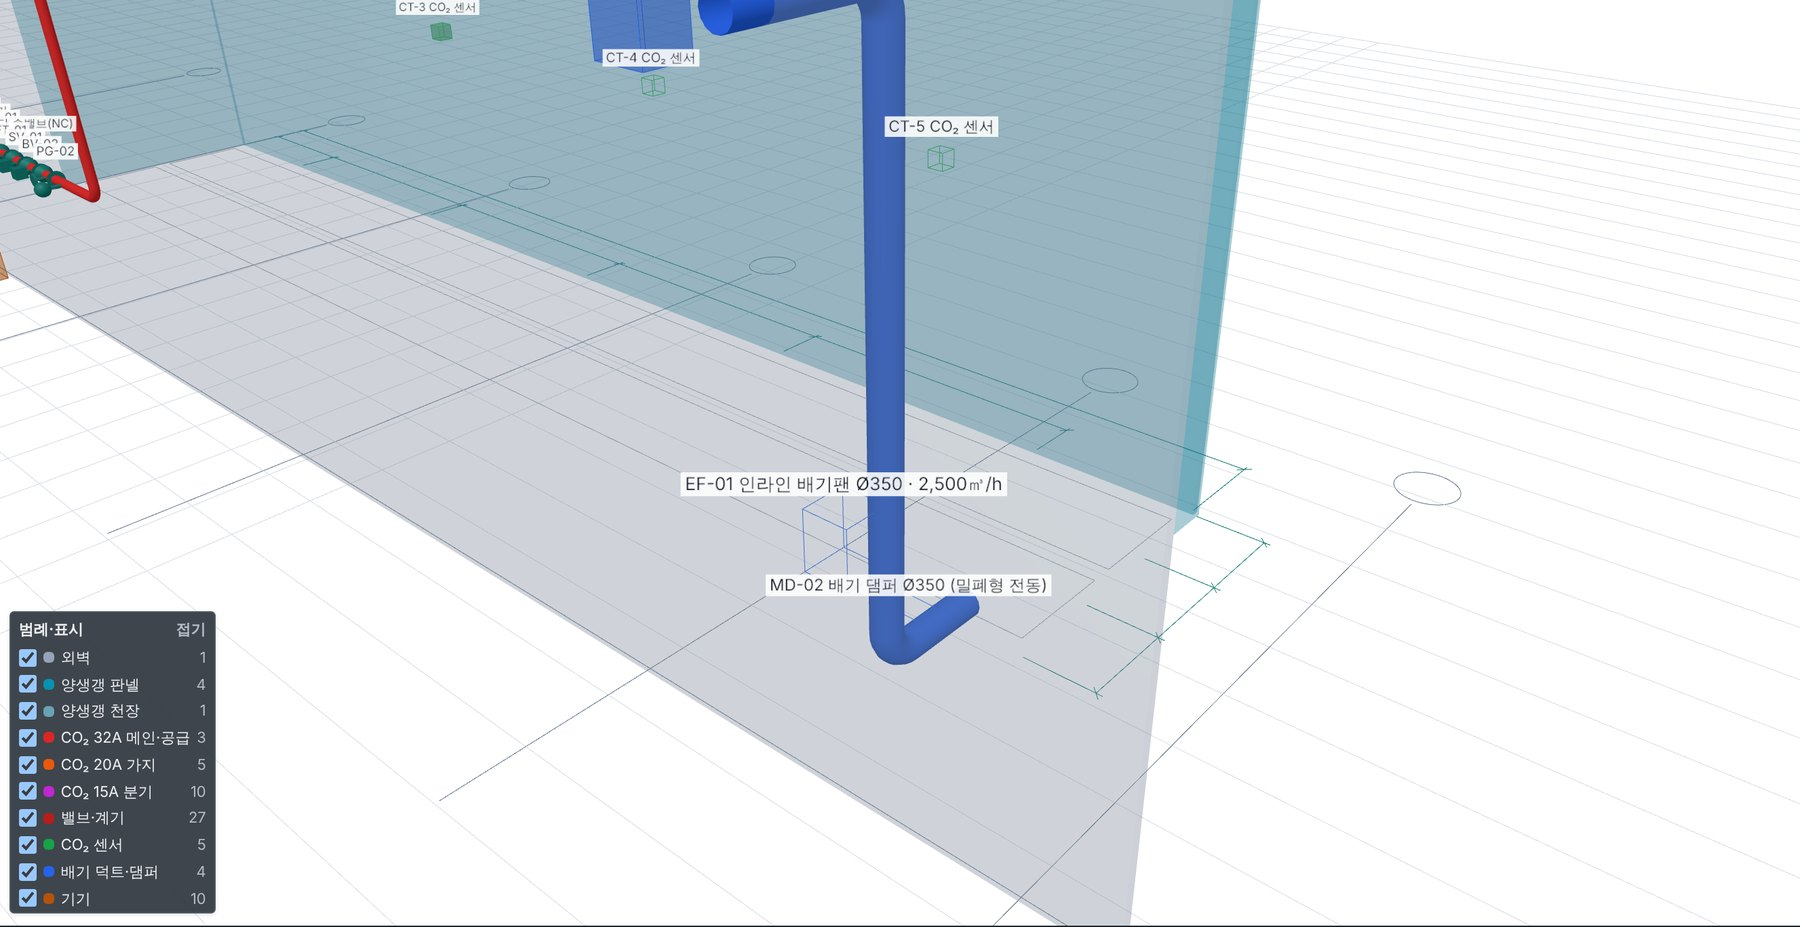
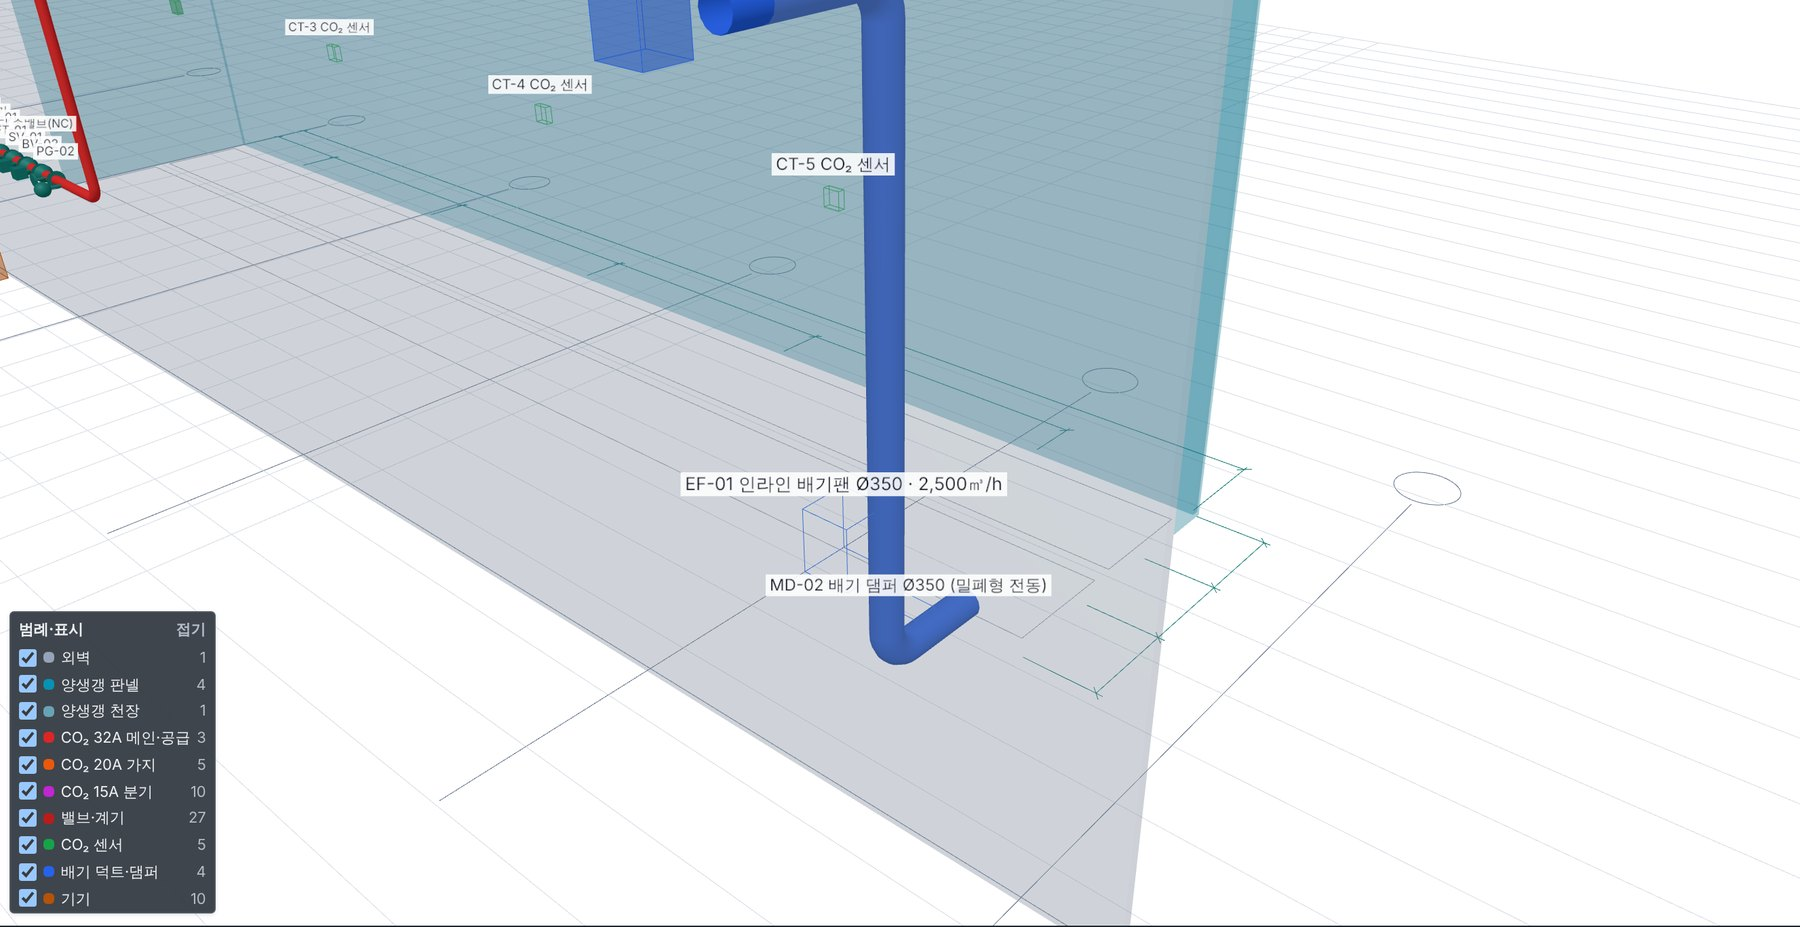
데코페이브 도면 그림·3D 화면: CO₂ 센서를 갱 오른쪽 벽면으로 옮김
Claude-Session: https://claude.ai/code/session_01MdRgMhkkCG9jx7tPyuMZFB

diff --git a/public/client-assets/decopave/3d.html b/public/client-assets/decopave/3d.html
@@ -45,7 +45,7 @@ button:focus-visible{outline:2px solid #2c5ce6;outline-offset:2px}
   <div id="labels" aria-hidden="true"></div>
   <section class="panel" aria-label="모델 정보">
     <div class="head"><h1>양생갱 15·16 CO₂ 배관·배기</h1><button id="fold" aria-expanded="true">접기</button></div>
-    <p class="sub">도면 NM-DWG-2611-02 (3판)</p>
+    <p class="sub">도면 NM-DWG-2611-02 (4판)</p>
     <div id="more">
       <div class="legend" aria-label="색 구분">
         <span><i style="background:#dc2626"></i>CO₂ 메인·공급관</span>
@@ -58,7 +58,7 @@ button:focus-visible{outline:2px solid #2c5ce6;outline-offset:2px}
         <span><i style="background:#67a3b5"></i>양생갱 (별도 공사)</span>
         <span><i style="background:#c4ccd4"></i>외벽</span>
       </div>
-      <p class="note">배관은 보기 쉽게 실제보다 굵게 그림. CO₂ 센서는 구간마다 중간 높이에 1개씩 5개이며 위치는 실측 때 확정함. CO₂ 저장탱크·기화기는 가스 공급사 범위이며 위치와 크기는 가정임. 배관 루트는 착수 전 실측으로 확정함.</p>
+      <p class="note">배관은 보기 쉽게 실제보다 굵게 그림. CO₂ 센서는 구간마다 오른쪽 벽면 중간 높이에 1개씩 5개이며 위치는 실측 때 확정함. CO₂ 저장탱크·기화기는 가스 공급사 범위이며 위치와 크기는 가정임. 배관 루트는 착수 전 실측으로 확정함.</p>
     </div>
   </section>
   <div class="hint" id="hint">끌어서 돌리기 · 휠로 확대 · 오른쪽 버튼(두 손가락)으로 이동</div>
@@ -83,7 +83,7 @@ button:focus-visible{outline:2px solid #2c5ce6;outline-offset:2px}
 <script>
 (function(){
 'use strict';
-var D={"pipes":[{"s":"32A","p":[[-10.35,3.0,0.6],[10.9,3.0,0.6],[10.9,9.46,0.6],[10.9,9.46,-4.435]]},{"s":"32A","p":[[2.342,9.46,-4.435],[7.026,9.46,-4.435],[10.9,9.46,-4.435],[11.71,9.46,-4.435],[16.394,9.46,-4.435],[21.078,9.46,-4.435]]},{"s":"20A","p":[[2.342,9.46,-4.435],[2.342,9.16,-4.435]]},{"s":"15A","p":[[2.342,9.16,-4.435],[2.342,9.16,-3.835],[2.342,8.76,-3.835]]},{"s":"15A","p":[[2.342,9.16,-4.435],[2.342,9.16,-5.035],[2.342,8.76,-5.035]]},{"s":"20A","p":[[7.026,9.46,-4.435],[7.026,9.16,-4.435]]},{"s":"15A","p":[[7.026,9.16,-4.435],[7.026,9.16,-3.835],[7.026,8.76,-3.835]]},{"s":"15A","p":[[7.026,9.16,-4.435],[7.026,9.16,-5.035],[7.026,8.76,-5.035]]},{"s":"20A","p":[[11.71,9.46,-4.435],[11.71,9.16,-4.435]]},{"s":"15A","p":[[11.71,9.16,-4.435],[11.71,9.16,-3.835],[11.71,8.76,-3.835]]},{"s":"15A","p":[[11.71,9.16,-4.435],[11.71,9.16,-5.035],[11.71,8.76,-5.035]]},{"s":"20A","p":[[16.394,9.46,-4.435],[16.394,9.16,-4.435]]},{"s":"15A","p":[[16.394,9.16,-4.435],[16.394,9.16,-3.835],[16.394,8.76,-3.835]]},{"s":"15A","p":[[16.394,9.16,-4.435],[16.394,9.16,-5.035],[16.394,8.76,-5.035]]},{"s":"20A","p":[[21.078,9.46,-4.435],[21.078,9.16,-4.435]]},{"s":"15A","p":[[21.078,9.16,-4.435],[21.078,9.16,-3.835],[21.078,8.76,-3.835]]},{"s":"15A","p":[[21.078,9.16,-4.435],[21.078,9.16,-5.035],[21.078,8.76,-5.035]]}],"fits":[{"k":"ball-valve","p":[6.399,3.0,0.6],"t":"BV-01 수동 차단밸브"},{"k":"solenoid","p":[7.899,3.0,0.6],"t":"MV-01 메인 차단 전자밸브"},{"k":"유량계","p":[8.4,3.0,0.6],"t":"FT-01 유량계"},{"k":"regulator","p":[6.9,3.0,0.6],"t":"PRV-01 정압기"},{"k":"safety-valve","p":[8.901,3.0,0.6],"t":"SV-01 안전밸브"},{"k":"gauge","p":[7.401,3.0,0.6],"t":"PG-01·PT-01 압력계"},{"k":"ball-valve","p":[9.399,3.0,0.6],"t":"BV-02 차단밸브"},{"k":"union","p":[2.342,9.37,-4.435],"t":""},{"k":"solenoid","p":[2.342,9.27,-4.435],"t":"SOV-1 구간 전자밸브"},{"k":"nozzle","p":[2.342,8.76,-3.835],"t":""},{"k":"nozzle","p":[2.342,8.76,-5.035],"t":""},{"k":"union","p":[7.026,9.37,-4.435],"t":""},{"k":"solenoid","p":[7.026,9.27,-4.435],"t":"SOV-2 구간 전자밸브"},{"k":"nozzle","p":[7.026,8.76,-3.835],"t":""},{"k":"nozzle","p":[7.026,8.76,-5.035],"t":""},{"k":"union","p":[11.71,9.37,-4.435],"t":""},{"k":"solenoid","p":[11.71,9.27,-4.435],"t":"SOV-3 구간 전자밸브"},{"k":"nozzle","p":[11.71,8.76,-3.835],"t":""},{"k":"nozzle","p":[11.71,8.76,-5.035],"t":""},{"k":"union","p":[16.394,9.37,-4.435],"t":""},{"k":"solenoid","p":[16.394,9.27,-4.435],"t":"SOV-4 구간 전자밸브"},{"k":"nozzle","p":[16.394,8.76,-3.835],"t":""},{"k":"nozzle","p":[16.394,8.76,-5.035],"t":""},{"k":"union","p":[21.078,9.37,-4.435],"t":""},{"k":"solenoid","p":[21.078,9.27,-4.435],"t":"SOV-5 구간 전자밸브"},{"k":"nozzle","p":[21.078,8.76,-3.835],"t":""},{"k":"nozzle","p":[21.078,8.76,-5.035],"t":""},{"k":"gauge","p":[9.9,3.0,0.6],"t":"PG-02 압력계"}],"boxes":[{"tag":"","layer":"ROOF","min":[-0.1,8.86,-6.335],"max":[23.52,8.96,-2.535]},{"tag":"CP-01 제어반","layer":"EQUIP","min":[3.9,0.0,-0.1],"max":[4.7,1.8,0.3]},{"tag":"MD-02 배기 댐퍼 Ø350 (밀폐형 전동)","layer":"DUCT","min":[22.575,0.175,-2.2],"max":[23.025,0.625,-1.9]},{"tag":"EF-01 인라인 배기팬 Ø350 · 2,500㎥/h","layer":"DUCT","min":[22.525,1.5,-1.575],"max":[23.075,2.2,-1.025]},{"tag":"배기 후드 (방충망·빗물막이)","layer":"DUCT","min":[22.55,6.7,0.45],"max":[23.05,7.2,0.9]},{"tag":"기화기·감압 (공급사)","layer":"EQUIP","min":[-11.15,0.0,0.15],"max":[-10.35,3.2,0.65]},{"tag":"CT-1 CO₂ 센서","layer":"SENSOR","min":[2.242,4.33,-4.535],"max":[2.442,4.53,-4.335]},{"tag":"CT-2 CO₂ 센서","layer":"SENSOR","min":[6.926,4.33,-4.535],"max":[7.126,4.53,-4.335]},{"tag":"CT-3 CO₂ 센서","layer":"SENSOR","min":[11.61,4.33,-4.535],"max":[11.81,4.53,-4.335]},{"tag":"CT-4 CO₂ 센서","layer":"SENSOR","min":[16.294,4.33,-4.535],"max":[16.494,4.53,-4.335]},{"tag":"CT-5 CO₂ 센서","layer":"SENSOR","min":[20.978,4.33,-4.535],"max":[21.178,4.53,-4.335]}],"rounds":[{"layer":"DUCT","id":"m99","r":0.175,"p":[[22.8,0.4,-2.585],[22.8,0.4,-1.3],[22.8,7.0,-1.3],[22.8,7.0,0.45]]},{"layer":"EQUIP","id":"tk1","r":1.1,"p":[[-12.6,0.6,1.7],[-12.6,4.6,1.7]]},{"layer":"EQUIP","id":"tk2","r":0.75,"p":[[-12.6,4.6,1.7],[-12.6,4.9,1.7]]},{"layer":"EQUIP","id":"tk3","r":0.75,"p":[[-12.6,0.3,1.7],[-12.6,0.6,1.7]]},{"layer":"EQUIP","id":"tk4","r":0.075,"p":[[-13.3,0.0,2.4],[-13.3,0.9,2.4]]},{"layer":"EQUIP","id":"tk5","r":0.075,"p":[[-11.9,0.0,2.4],[-11.9,0.9,2.4]]},{"layer":"EQUIP","id":"tk6","r":0.075,"p":[[-13.3,0.0,1.0],[-13.3,0.9,1.0]]},{"layer":"EQUIP","id":"tk7","r":0.075,"p":[[-11.9,0.0,1.0],[-11.9,0.9,1.0]]},{"layer":"EQUIP","id":"tk10","r":0.03,"p":[[-12.6,0.9,1.7],[-12.6,0.9,0.4],[-11.15,0.9,0.4]]}],"walls":[{"k":"out","a":[-11.8,0.0,0.0],"b":[26.4,0.0,0.0],"h":10.5},{"k":"ch","a":[-0.05,0.0,-2.585],"b":[23.47,0.0,-2.585],"h":8.86},{"k":"ch","a":[23.47,0.0,-2.585],"b":[23.47,0.0,-6.285],"h":8.86},{"k":"ch","a":[23.47,0.0,-6.285],"b":[-0.05,0.0,-6.285],"h":8.86},{"k":"ch","a":[-0.05,0.0,-6.285],"b":[-0.05,0.0,-2.585],"h":8.86}],"racks":[[0.094,-4.29,23.321,-2.89],[0.094,-5.98,23.321,-4.58]]};
+var D={"pipes":[{"s":"32A","p":[[-10.35,3.0,0.6],[10.9,3.0,0.6],[10.9,9.46,0.6],[10.9,9.46,-4.435]]},{"s":"32A","p":[[2.342,9.46,-4.435],[7.026,9.46,-4.435],[10.9,9.46,-4.435],[11.71,9.46,-4.435],[16.394,9.46,-4.435],[21.078,9.46,-4.435]]},{"s":"20A","p":[[2.342,9.46,-4.435],[2.342,9.16,-4.435]]},{"s":"15A","p":[[2.342,9.16,-4.435],[2.342,9.16,-3.835],[2.342,8.76,-3.835]]},{"s":"15A","p":[[2.342,9.16,-4.435],[2.342,9.16,-5.035],[2.342,8.76,-5.035]]},{"s":"20A","p":[[7.026,9.46,-4.435],[7.026,9.16,-4.435]]},{"s":"15A","p":[[7.026,9.16,-4.435],[7.026,9.16,-3.835],[7.026,8.76,-3.835]]},{"s":"15A","p":[[7.026,9.16,-4.435],[7.026,9.16,-5.035],[7.026,8.76,-5.035]]},{"s":"20A","p":[[11.71,9.46,-4.435],[11.71,9.16,-4.435]]},{"s":"15A","p":[[11.71,9.16,-4.435],[11.71,9.16,-3.835],[11.71,8.76,-3.835]]},{"s":"15A","p":[[11.71,9.16,-4.435],[11.71,9.16,-5.035],[11.71,8.76,-5.035]]},{"s":"20A","p":[[16.394,9.46,-4.435],[16.394,9.16,-4.435]]},{"s":"15A","p":[[16.394,9.16,-4.435],[16.394,9.16,-3.835],[16.394,8.76,-3.835]]},{"s":"15A","p":[[16.394,9.16,-4.435],[16.394,9.16,-5.035],[16.394,8.76,-5.035]]},{"s":"20A","p":[[21.078,9.46,-4.435],[21.078,9.16,-4.435]]},{"s":"15A","p":[[21.078,9.16,-4.435],[21.078,9.16,-3.835],[21.078,8.76,-3.835]]},{"s":"15A","p":[[21.078,9.16,-4.435],[21.078,9.16,-5.035],[21.078,8.76,-5.035]]}],"fits":[{"k":"ball-valve","p":[6.399,3.0,0.6],"t":"BV-01 수동 차단밸브"},{"k":"solenoid","p":[7.899,3.0,0.6],"t":"MV-01 메인 차단 전자밸브"},{"k":"유량계","p":[8.4,3.0,0.6],"t":"FT-01 유량계"},{"k":"regulator","p":[6.9,3.0,0.6],"t":"PRV-01 정압기"},{"k":"safety-valve","p":[8.901,3.0,0.6],"t":"SV-01 안전밸브"},{"k":"gauge","p":[7.401,3.0,0.6],"t":"PG-01·PT-01 압력계"},{"k":"ball-valve","p":[9.399,3.0,0.6],"t":"BV-02 차단밸브"},{"k":"union","p":[2.342,9.37,-4.435],"t":""},{"k":"solenoid","p":[2.342,9.27,-4.435],"t":"SOV-1 구간 전자밸브"},{"k":"nozzle","p":[2.342,8.76,-3.835],"t":""},{"k":"nozzle","p":[2.342,8.76,-5.035],"t":""},{"k":"union","p":[7.026,9.37,-4.435],"t":""},{"k":"solenoid","p":[7.026,9.27,-4.435],"t":"SOV-2 구간 전자밸브"},{"k":"nozzle","p":[7.026,8.76,-3.835],"t":""},{"k":"nozzle","p":[7.026,8.76,-5.035],"t":""},{"k":"union","p":[11.71,9.37,-4.435],"t":""},{"k":"solenoid","p":[11.71,9.27,-4.435],"t":"SOV-3 구간 전자밸브"},{"k":"nozzle","p":[11.71,8.76,-3.835],"t":""},{"k":"nozzle","p":[11.71,8.76,-5.035],"t":""},{"k":"union","p":[16.394,9.37,-4.435],"t":""},{"k":"solenoid","p":[16.394,9.27,-4.435],"t":"SOV-4 구간 전자밸브"},{"k":"nozzle","p":[16.394,8.76,-3.835],"t":""},{"k":"nozzle","p":[16.394,8.76,-5.035],"t":""},{"k":"union","p":[21.078,9.37,-4.435],"t":""},{"k":"solenoid","p":[21.078,9.27,-4.435],"t":"SOV-5 구간 전자밸브"},{"k":"nozzle","p":[21.078,8.76,-3.835],"t":""},{"k":"nozzle","p":[21.078,8.76,-5.035],"t":""},{"k":"gauge","p":[9.9,3.0,0.6],"t":"PG-02 압력계"}],"boxes":[{"tag":"","layer":"ROOF","min":[-0.1,8.86,-6.335],"max":[23.52,8.96,-2.535]},{"tag":"CP-01 제어반","layer":"EQUIP","min":[3.9,0.0,-0.1],"max":[4.7,1.8,0.3]},{"tag":"MD-02 배기 댐퍼 Ø350 (밀폐형 전동)","layer":"DUCT","min":[22.575,0.175,-2.2],"max":[23.025,0.625,-1.9]},{"tag":"EF-01 인라인 배기팬 Ø350 · 2,500㎥/h","layer":"DUCT","min":[22.525,1.5,-1.575],"max":[23.075,2.2,-1.025]},{"tag":"배기 후드 (방충망·빗물막이)","layer":"DUCT","min":[22.55,6.7,0.45],"max":[23.05,7.2,0.9]},{"tag":"기화기·감압 (공급사)","layer":"EQUIP","min":[-11.15,0.0,0.15],"max":[-10.35,3.2,0.65]},{"tag":"CT-1 CO₂ 센서","layer":"SENSOR","min":[2.242,4.33,-2.715],"max":[2.442,4.53,-2.635]},{"tag":"CT-2 CO₂ 센서","layer":"SENSOR","min":[6.926,4.33,-2.715],"max":[7.126,4.53,-2.635]},{"tag":"CT-3 CO₂ 센서","layer":"SENSOR","min":[11.61,4.33,-2.715],"max":[11.81,4.53,-2.635]},{"tag":"CT-4 CO₂ 센서","layer":"SENSOR","min":[16.294,4.33,-2.715],"max":[16.494,4.53,-2.635]},{"tag":"CT-5 CO₂ 센서","layer":"SENSOR","min":[20.978,4.33,-2.715],"max":[21.178,4.53,-2.635]}],"rounds":[{"layer":"DUCT","id":"m99","r":0.175,"p":[[22.8,0.4,-2.585],[22.8,0.4,-1.3],[22.8,7.0,-1.3],[22.8,7.0,0.45]]},{"layer":"EQUIP","id":"tk1","r":1.1,"p":[[-12.6,0.6,1.7],[-12.6,4.6,1.7]]},{"layer":"EQUIP","id":"tk2","r":0.75,"p":[[-12.6,4.6,1.7],[-12.6,4.9,1.7]]},{"layer":"EQUIP","id":"tk3","r":0.75,"p":[[-12.6,0.3,1.7],[-12.6,0.6,1.7]]},{"layer":"EQUIP","id":"tk4","r":0.075,"p":[[-13.3,0.0,2.4],[-13.3,0.9,2.4]]},{"layer":"EQUIP","id":"tk5","r":0.075,"p":[[-11.9,0.0,2.4],[-11.9,0.9,2.4]]},{"layer":"EQUIP","id":"tk6","r":0.075,"p":[[-13.3,0.0,1.0],[-13.3,0.9,1.0]]},{"layer":"EQUIP","id":"tk7","r":0.075,"p":[[-11.9,0.0,1.0],[-11.9,0.9,1.0]]},{"layer":"EQUIP","id":"tk10","r":0.03,"p":[[-12.6,0.9,1.7],[-12.6,0.9,0.4],[-11.15,0.9,0.4]]}],"walls":[{"k":"out","a":[-11.8,0.0,0.0],"b":[26.4,0.0,0.0],"h":10.5},{"k":"ch","a":[-0.05,0.0,-2.585],"b":[23.47,0.0,-2.585],"h":8.86},{"k":"ch","a":[23.47,0.0,-2.585],"b":[23.47,0.0,-6.285],"h":8.86},{"k":"ch","a":[23.47,0.0,-6.285],"b":[-0.05,0.0,-6.285],"h":8.86},{"k":"ch","a":[-0.05,0.0,-6.285],"b":[-0.05,0.0,-2.585],"h":8.86}],"racks":[[0.094,-4.29,23.321,-2.89],[0.094,-5.98,23.321,-4.58]]};
 var canvas=document.getElementById('c'), hint=document.getElementById('hint'), labelBox=document.getElementById('labels');
 if(!window.THREE){ hint.textContent='3D 화면을 불러오지 못함. 새로 고침해 주십시오.'; hint.style.display='block'; return; }
 var renderer;
